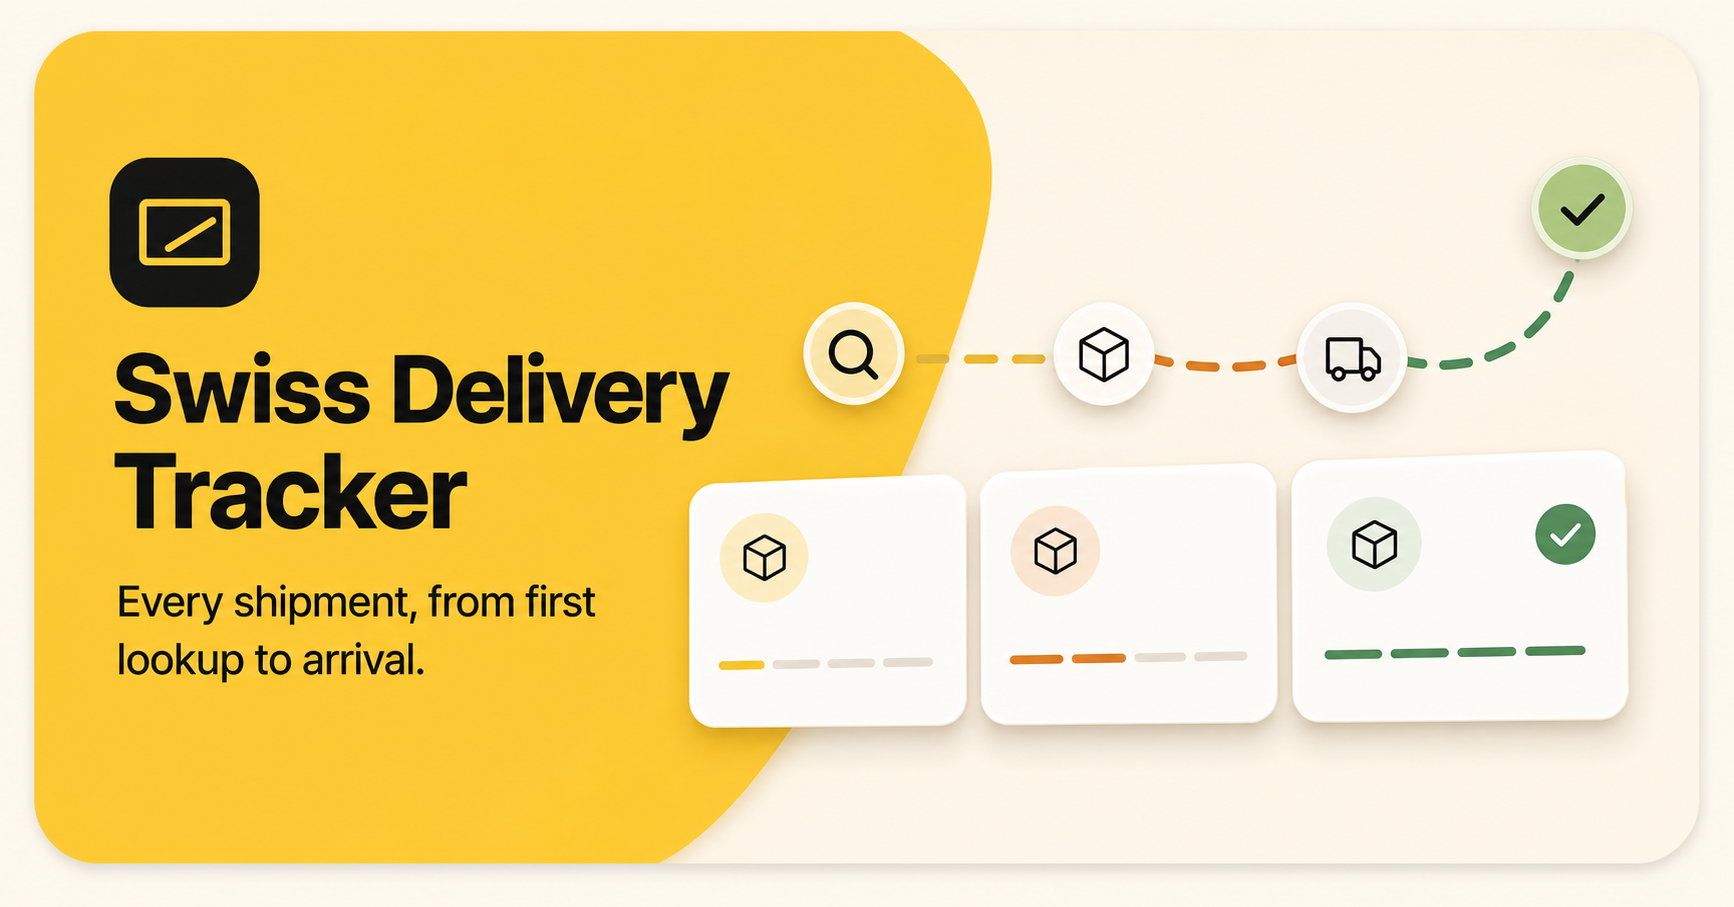
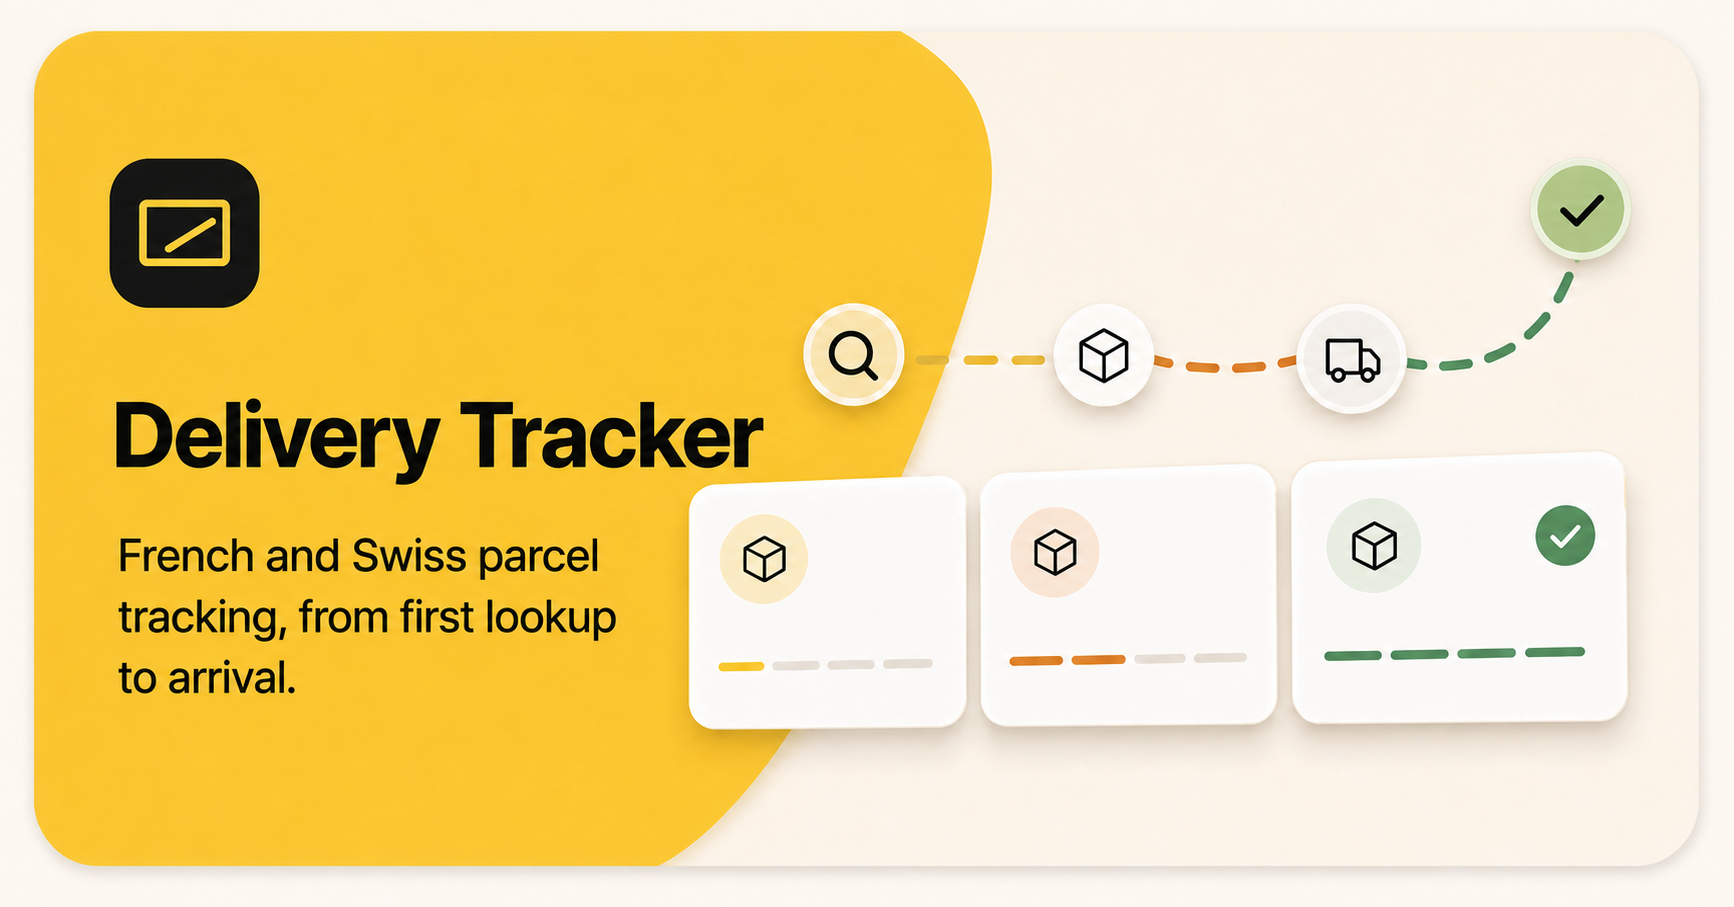
Rename product to Delivery Tracker

diff --git a/src/i18n.tsx b/src/i18n.tsx
@@ -25,8 +25,8 @@ const en = {
   'common.cancel': 'Cancel',
   'common.retry': 'Retry',
   'common.restoring': 'Restoring…',
-  'app.eyebrow': 'France + Switzerland',
-  'app.title': 'Swiss Delivery Tracker',
+  'app.eyebrow': 'French and Swiss parcel tracking',
+  'app.title': 'Delivery Tracker',
   'app.nextUp': 'Next up',
   'app.refresh': 'Refresh tracking',
   'app.refreshing': 'Queueing tracking checks',
@@ -220,7 +220,7 @@ const en = {
   'notifications.disable': 'Turn off on this device',
   'notifications.disabling': 'Turning off…',
   'notifications.state.enabled': 'This device is subscribed to new tracking events.',
-  'notifications.state.unsupported': 'On iPhone, add Swiss Delivery Tracker to your Home Screen, then open it there.',
+  'notifications.state.unsupported': 'On iPhone, add Delivery Tracker to your Home Screen, then open it there.',
   'notifications.state.unavailable': 'The notification service is not configured yet.',
   'notifications.state.blocked': 'Notifications are blocked. Allow them in this app’s system settings.',
   'notifications.state.prompt': 'Enable alerts once on every device where you want to receive them.',
@@ -261,7 +261,7 @@ const en = {
   'account.delete': 'Delete account',
   'account.actionFailed': 'Could not complete the account action',
   'auth.title': 'Keep every delivery in one place',
-  'auth.subtitle': 'Track parcels across France and Switzerland, with alerts and history synced across your devices.',
+  'auth.subtitle': 'Track French and Swiss parcels, with alerts and history synced across your devices.',
   'auth.configTitle': 'Authentication needs configuration.',
   'auth.codeIntro': 'Enter the six-digit code sent to {{email}}.',
   'auth.code': 'Sign-in code',
@@ -290,7 +290,7 @@ type Messages = Record<MessageKey, string>;
 const de: Messages = {
   'language.label': 'Sprache', 'language.en': 'English', 'language.de': 'Deutsch',
   'language.fr': 'Français', 'language.it': 'Italiano',
-  'app.eyebrow': 'Frankreich + Schweiz', 'app.title': 'Swiss Delivery Tracker', 'app.nextUp': 'Als Nächstes',
+  'app.eyebrow': 'Französische und Schweizer Sendungen', 'app.title': 'Delivery Tracker', 'app.nextUp': 'Als Nächstes',
   'app.refresh': 'Sendungen aktualisieren', 'app.refreshing': 'Sendungsabfragen werden geplant',
   'app.parcel.one': 'Paket', 'app.parcel.many': 'Pakete', 'app.onTheWay': 'unterwegs',
   'app.opening': 'Deine Paketbox wird geöffnet…', 'app.loadFailed': 'Deine Paketbox konnte nicht geladen werden',
@@ -378,7 +378,7 @@ const de: Messages = {
   'notifications.enable': 'Benachrichtigungen aktivieren', 'notifications.enabling': 'Wird aktiviert…',
   'notifications.disable': 'Auf diesem Gerät ausschalten', 'notifications.disabling': 'Wird ausgeschaltet…',
   'notifications.state.enabled': 'Dieses Gerät empfängt neue Sendungsereignisse.',
-  'notifications.state.unsupported': 'Füge Swiss Delivery Tracker auf dem iPhone zum Home-Bildschirm hinzu und öffne die App dort.',
+  'notifications.state.unsupported': 'Füge Delivery Tracker auf dem iPhone zum Home-Bildschirm hinzu und öffne die App dort.',
   'notifications.state.unavailable': 'Der Benachrichtigungsdienst ist noch nicht konfiguriert.',
   'notifications.state.blocked': 'Benachrichtigungen sind blockiert. Erlaube sie in den Systemeinstellungen der App.',
   'notifications.state.prompt': 'Aktiviere Meldungen einmal auf jedem gewünschten Gerät.',
@@ -421,7 +421,7 @@ const de: Messages = {
 const fr: Messages = {
   'language.label': 'Langue', 'language.en': 'English', 'language.de': 'Deutsch',
   'language.fr': 'Français', 'language.it': 'Italiano',
-  'app.eyebrow': 'France + Suisse', 'app.title': 'Swiss Delivery Tracker', 'app.nextUp': 'À suivre', 'app.refresh': 'Actualiser le suivi',
+  'app.eyebrow': 'Suivi de colis français et suisses', 'app.title': 'Delivery Tracker', 'app.nextUp': 'À suivre', 'app.refresh': 'Actualiser le suivi',
   'app.refreshing': 'Planification des vérifications', 'app.parcel.one': 'colis', 'app.parcel.many': 'colis', 'app.onTheWay': 'en route',
   'app.opening': 'Ouverture de votre boîte de livraison…', 'app.loadFailed': 'Votre boîte de livraison n’a pas pu être chargée',
   'app.noneOnWay': 'Aucun colis en route pour le moment',
@@ -509,7 +509,7 @@ const fr: Messages = {
   'notifications.enable': 'Activer les notifications', 'notifications.enabling': 'Activation…',
   'notifications.disable': 'Désactiver sur cet appareil', 'notifications.disabling': 'Désactivation…',
   'notifications.state.enabled': 'Cet appareil est abonné aux nouveaux événements de suivi.',
-  'notifications.state.unsupported': 'Sur iPhone, ajoutez Swiss Delivery Tracker à l’écran d’accueil puis ouvrez-le depuis celui-ci.',
+  'notifications.state.unsupported': 'Sur iPhone, ajoutez Delivery Tracker à l’écran d’accueil puis ouvrez-le depuis celui-ci.',
   'notifications.state.unavailable': 'Le service de notification n’est pas encore configuré.',
   'notifications.state.blocked': 'Les notifications sont bloquées. Autorisez-les dans les réglages système de l’app.',
   'notifications.state.prompt': 'Activez les alertes sur chaque appareil où vous souhaitez les recevoir.',
@@ -550,7 +550,7 @@ const fr: Messages = {
 const it: Messages = {
   'language.label': 'Lingua', 'language.en': 'English', 'language.de': 'Deutsch',
   'language.fr': 'Français', 'language.it': 'Italiano',
-  'app.eyebrow': 'Francia + Svizzera', 'app.title': 'Swiss Delivery Tracker', 'app.nextUp': 'Prossimo', 'app.refresh': 'Aggiorna il tracciamento',
+  'app.eyebrow': 'Tracciamento francese e svizzero', 'app.title': 'Delivery Tracker', 'app.nextUp': 'Prossimo', 'app.refresh': 'Aggiorna il tracciamento',
   'app.refreshing': 'Pianificazione dei controlli', 'app.parcel.one': 'pacco', 'app.parcel.many': 'pacchi', 'app.onTheWay': 'in arrivo',
   'app.opening': 'Apertura della tua casella consegne…', 'app.loadFailed': 'Impossibile caricare la tua casella consegne',
   'app.noneOnWay': 'Nessun pacco in arrivo al momento',
@@ -638,7 +638,7 @@ const it: Messages = {
   'notifications.enable': 'Attiva notifiche', 'notifications.enabling': 'Attivazione…',
   'notifications.disable': 'Disattiva su questo dispositivo', 'notifications.disabling': 'Disattivazione…',
   'notifications.state.enabled': 'Questo dispositivo riceve i nuovi eventi di tracciamento.',
-  'notifications.state.unsupported': 'Su iPhone, aggiungi Swiss Delivery Tracker alla schermata Home e aprilo da lì.',
+  'notifications.state.unsupported': 'Su iPhone, aggiungi Delivery Tracker alla schermata Home e aprilo da lì.',
   'notifications.state.unavailable': 'Il servizio di notifiche non è ancora configurato.',
   'notifications.state.blocked': 'Le notifiche sono bloccate. Consentile nelle impostazioni di sistema dell’app.',
   'notifications.state.prompt': 'Attiva gli avvisi su ogni dispositivo su cui vuoi riceverli.',

diff --git a/src/server/push.ts b/src/server/push.ts
@@ -25,7 +25,7 @@ const STAGE_LABELS: Record<string, string> = {
 const PUSH_COPY: Record<string, Record<string, string>> = {
   en: {
     test_title: 'Notifications are on',
-    test_body: 'Swiss Delivery Tracker will alert this iPhone when tracking changes.',
+    test_body: 'Delivery Tracker will alert this iPhone when tracking changes.',
     update: 'Parcel update',
     eta: 'ETA {{date}}',
     eta_changed: 'New ETA: {{date}}',
@@ -35,7 +35,7 @@ const PUSH_COPY: Record<string, Record<string, string>> = {
   },
   de: {
     test_title: 'Benachrichtigungen sind aktiv',
-    test_body: 'Swiss Delivery Tracker meldet Änderungen an Sendungen auf diesem iPhone.',
+    test_body: 'Delivery Tracker meldet Änderungen an Sendungen auf diesem iPhone.',
     update: 'Paketaktualisierung',
     eta: 'Voraussichtliche Zustellung: {{date}}',
     eta_changed: 'Neue Lieferprognose: {{date}}',
@@ -54,7 +54,7 @@ const PUSH_COPY: Record<string, Record<string, string>> = {
   },
   fr: {
     test_title: 'Les notifications sont activées',
-    test_body: 'Swiss Delivery Tracker signalera les changements de suivi sur cet iPhone.',
+    test_body: 'Delivery Tracker signalera les changements de suivi sur cet iPhone.',
     update: 'Mise à jour du colis',
     eta: 'Livraison prévue : {{date}}',
     eta_changed: 'Nouvelle date estimée : {{date}}',
@@ -73,7 +73,7 @@ const PUSH_COPY: Record<string, Record<string, string>> = {
   },
   it: {
     test_title: 'Le notifiche sono attive',
-    test_body: 'Swiss Delivery Tracker segnalerà le modifiche di tracciamento su questo iPhone.',
+    test_body: 'Delivery Tracker segnalerà le modifiche di tracciamento su questo iPhone.',
     update: 'Aggiornamento del pacco',
     eta: 'Consegna prevista: {{date}}',
     eta_changed: 'Nuova data stimata: {{date}}',
@@ -253,7 +253,7 @@ export class WebPushNotificationService {
   async sendTest(subscription: JsonObject): Promise<void> {
     await this.send(subscription, {
       title: 'Notifications are on',
-      body: 'Swiss Delivery Tracker will alert this device when tracking changes.',
+      body: 'Delivery Tracker will alert this device when tracking changes.',
       tag: 'parcel-post-ready',
       data: { url: '/' },
     });

diff --git a/public/privacy.html b/public/privacy.html
@@ -5,18 +5,18 @@
     <meta name="viewport" content="width=device-width, initial-scale=1.0" />
     <meta name="theme-color" content="#ffcf00" />
     <meta name="robots" content="index,follow" />
-    <title>Privacy — Swiss Delivery Tracker</title>
+    <title>Privacy — Delivery Tracker</title>
     <link rel="stylesheet" href="/privacy.css" />
   </head>
   <body>
     <main>
-      <a class="back" href="/">← Back to Swiss Delivery Tracker</a>
-      <p class="eyebrow">Swiss Delivery Tracker</p>
+      <a class="back" href="/">← Back to Delivery Tracker</a>
+      <p class="eyebrow">Delivery Tracker · French and Swiss parcels</p>
       <h1>Privacy notice</h1>
       <p class="effective">Effective 30 August 2026</p>
 
       <p>
-        Swiss Delivery Tracker stores only the information needed to authenticate you and
+        Delivery Tracker stores only the information needed to authenticate you and
         follow French and Swiss parcel deliveries. It does not sell personal data,
         serve ads, or include third-party behavioral analytics.
       </p>
@@ -50,7 +50,7 @@
         social sign-in, and the configured SMTP provider sends codes when email
         OTP is enabled. Cloudflare and the container host may process network
         metadata. The selected carrier receives its tracking number or
-        carrier-specific tracking credential so Swiss Delivery Tracker can
+        carrier-specific tracking credential so Delivery Tracker can
         retrieve updates. DPD Switzerland may also receive the parcel's
         supplied postcode for recipient verification. Mondial Relay requires
         the five-digit recipient postcode to retrieve shipment events. Colis
@@ -93,7 +93,8 @@
       </p>
 
       <p class="forks">
-        This notice covers the official Swiss Delivery Tracker service. Third-party forks
+        This notice covers the official Delivery Tracker service for French and Swiss
+        parcel tracking. Third-party forks
         are operated independently and must publish their own notice.
       </p>
     </main>

diff --git a/src/metadata.test.ts b/src/metadata.test.ts
@@ -11,19 +11,20 @@ import { metadata as layoutMetadata } from '../app/layout';
 import manifest from '../app/manifest';
 import { generateMetadata } from '../app/page';
 
-const TITLE = 'French & Swiss Parcel Tracking | Swiss Delivery Tracker';
+const TITLE = 'French & Swiss Parcel Tracking | Delivery Tracker';
 const DESCRIPTION =
   'Private parcel tracking across France and Switzerland for French, Swiss, and international carriers.';
 
 describe('public product metadata', () => {
   it('positions the site and installed PWA for France and Switzerland', () => {
     expect(layoutMetadata).toMatchObject({
-      applicationName: 'Swiss Delivery Tracker',
+      applicationName: 'Delivery Tracker',
       title: TITLE,
       description: DESCRIPTION,
     });
     expect(manifest()).toMatchObject({
-      name: 'Swiss Delivery Tracker',
+      name: 'Delivery Tracker',
+      short_name: 'Delivery Tracker',
       description: DESCRIPTION,
     });
   });
@@ -36,7 +37,7 @@ describe('public product metadata', () => {
       description: DESCRIPTION,
       alternates: { canonical: 'https://delivery.example.test/' },
       openGraph: {
-        siteName: 'Swiss Delivery Tracker',
+        siteName: 'Delivery Tracker',
         title: TITLE,
         description: DESCRIPTION,
       },

diff --git a/ios/SwissDeliveryTrackerTests/LocalizationTests.swift b/ios/SwissDeliveryTrackerTests/LocalizationTests.swift
@@ -72,13 +72,13 @@ final class LocalizationTests: XCTestCase {
         }
     }
 
-    func testNativeWelcomeNamesFranceAndSwitzerlandInEveryLanguage() throws {
+    func testNativeWelcomeNamesFrenchAndSwissDeliveriesInEveryLanguage() throws {
         let dictionaries = try localizationDictionaries()
         let expected = [
-            "en": "Track deliveries across France and Switzerland on the web and this iPhone.",
-            "de": "Verfolge Lieferungen in Frankreich und der Schweiz im Web und auf diesem iPhone.",
-            "fr": "Suivez vos livraisons en France et en Suisse, sur le web et sur cet iPhone.",
-            "it": "Segui le consegne in Francia e Svizzera sul web e su questo iPhone.",
+            "en": "Track French and Swiss deliveries on the web and this iPhone.",
+            "de": "Verfolge französische und Schweizer Lieferungen im Web und auf diesem iPhone.",
+            "fr": "Suivez vos livraisons françaises et suisses sur le web et sur cet iPhone.",
+            "it": "Segui le consegne francesi e svizzere sul web e su questo iPhone.",
         ]
 
         for (language, subtitle) in expected {

diff --git a/app/page.tsx b/app/page.tsx
@@ -3,7 +3,7 @@ import { headers } from 'next/headers';
 import { connection } from 'next/server';
 import { ClientApplication } from '../src/ClientApplication';
 
-const title = 'French & Swiss Parcel Tracking | Swiss Delivery Tracker';
+const title = 'French & Swiss Parcel Tracking | Delivery Tracker';
 const description =
   'Private parcel tracking across France and Switzerland for French, Swiss, and international carriers.';
 
@@ -53,14 +53,14 @@ export async function generateMetadata(): Promise<Metadata> {
     openGraph: {
       type: 'website',
       url: origin.href,
-      siteName: 'Swiss Delivery Tracker',
+      siteName: 'Delivery Tracker',
       title,
       description,
       images: [{
         url: image,
         width: 1_734,
         height: 907,
-        alt: 'Swiss Delivery Tracker for parcel deliveries across France and Switzerland',
+        alt: 'Delivery Tracker for French and Swiss parcel deliveries',
       }],
     },
     twitter: {

diff --git a/src/components/SignInScreen.test.tsx b/src/components/SignInScreen.test.tsx
@@ -12,12 +12,12 @@ describe('SignInScreen', () => {
       <SignInScreen configured sendCode={sendCode} verifyCode={verifyCode} />,
     );
 
-    expect(screen.getByText('Swiss Delivery Tracker')).toBeInTheDocument();
-    expect(screen.getByText('France + Switzerland')).toBeInTheDocument();
+    expect(screen.getByText('Delivery Tracker')).toBeInTheDocument();
+    expect(screen.getByText('French and Swiss parcel tracking')).toBeInTheDocument();
     expect(screen.getByRole('heading', {
       name: 'Keep every delivery in one place',
     })).toBeInTheDocument();
-    expect(screen.getByText(/track parcels across France and Switzerland/i))
+    expect(screen.getByText(/track French and Swiss parcels/i))
       .toBeInTheDocument();
     expect(screen.getByRole('link', { name: 'Read the privacy notice.' }))
       .toHaveAttribute('href', '/privacy.html');

diff --git a/src/i18n.test.tsx b/src/i18n.test.tsx
@@ -41,12 +41,12 @@ describe('localization', () => {
 
     await waitFor(() => {
       expect(screen.getByLabelText('Sprache')).toHaveValue('de');
-      expect(screen.getByText('Frankreich + Schweiz')).toBeInTheDocument();
+      expect(screen.getByText('Französische und Schweizer Sendungen')).toBeInTheDocument();
       expect(screen.getByText('In Zustellung')).toBeInTheDocument();
     });
 
     await user.selectOptions(screen.getByLabelText('Sprache'), 'fr');
-    expect(screen.getByText('France + Suisse')).toBeInTheDocument();
+    expect(screen.getByText('Suivi de colis français et suisses')).toBeInTheDocument();
     expect(screen.getByText('En livraison')).toBeInTheDocument();
     await waitFor(() => {
       expect(document.documentElement.lang).toBe('fr');

diff --git a/public/auth-emails/magic-link.html b/public/auth-emails/magic-link.html
@@ -3,7 +3,7 @@
   <head>
     <meta charset="utf-8" />
     <meta name="viewport" content="width=device-width, initial-scale=1" />
-    <title>Your Swiss Delivery Tracker sign-in code</title>
+    <title>Your Delivery Tracker sign-in code</title>
   </head>
   <body
     style="margin: 0; background: #f3f0e7; color: #1d1d1b; font-family: Arial, sans-serif"
@@ -21,7 +21,7 @@
             <tr>
               <td style="padding: 32px">
                 <p style="margin: 0 0 10px; font-size: 14px; font-weight: 700">
-                  Swiss Delivery Tracker
+                  Delivery Tracker · French and Swiss parcels
                 </p>
                 <h1 style="margin: 0 0 16px; font-size: 25px; line-height: 1.25">
                   Your sign-in code

diff --git a/e2e/parcel-journeys.spec.ts b/e2e/parcel-journeys.spec.ts
@@ -11,7 +11,7 @@ test.beforeEach(async ({ page }) => {
   page.on('pageerror', (error) => errors.push(error.message));
   await page.addInitScript(() => window.localStorage.clear());
   await page.goto('/', { waitUntil: 'domcontentloaded' });
-  await expect(page.getByRole('heading', { name: 'Swiss Delivery Tracker' })).toBeVisible();
+  await expect(page.getByRole('heading', { name: 'Delivery Tracker' })).toBeVisible();
   // This control is rendered only after the client repository has loaded, so
   // it is also a stable signal that hydration and the first effect completed.
   await expect(page.getByRole('button', { name: 'Search & filters' })).toBeVisible();

diff --git a/src/App.test.tsx b/src/App.test.tsx
@@ -50,9 +50,9 @@ describe('App', () => {
     renderApp();
     expect(screen.getByRole('heading', {
       level: 1,
-      name: 'Swiss Delivery Tracker',
+      name: 'Delivery Tracker',
     })).toBeInTheDocument();
-    expect(screen.getByText('France + Switzerland')).toBeInTheDocument();
+    expect(screen.getByText('French and Swiss parcel tracking')).toBeInTheDocument();
     expect(await screen.findByText('Coffee beans ☕')).toBeInTheDocument();
     expect(screen.getByText('New sneakers 👟')).toBeInTheDocument();
     expect(screen.getAllByText('Birthday gift 🎁')).toHaveLength(2);

diff --git a/app/~offline/page.tsx b/app/~offline/page.tsx
@@ -3,7 +3,7 @@ export default function OfflinePage() {
     <main className="auth-screen">
       <section className="auth-card" aria-labelledby="offline-title">
         <div className="auth-card__mark" aria-hidden="true"><span /></div>
-        <p className="auth-card__eyebrow">Swiss Delivery Tracker</p>
+        <p className="auth-card__eyebrow">Delivery Tracker · French and Swiss parcels</p>
         <h1 id="offline-title">You’re offline</h1>
         <p className="auth-card__intro">
           Reconnect to refresh carrier updates. Parcels you already opened remain available.
